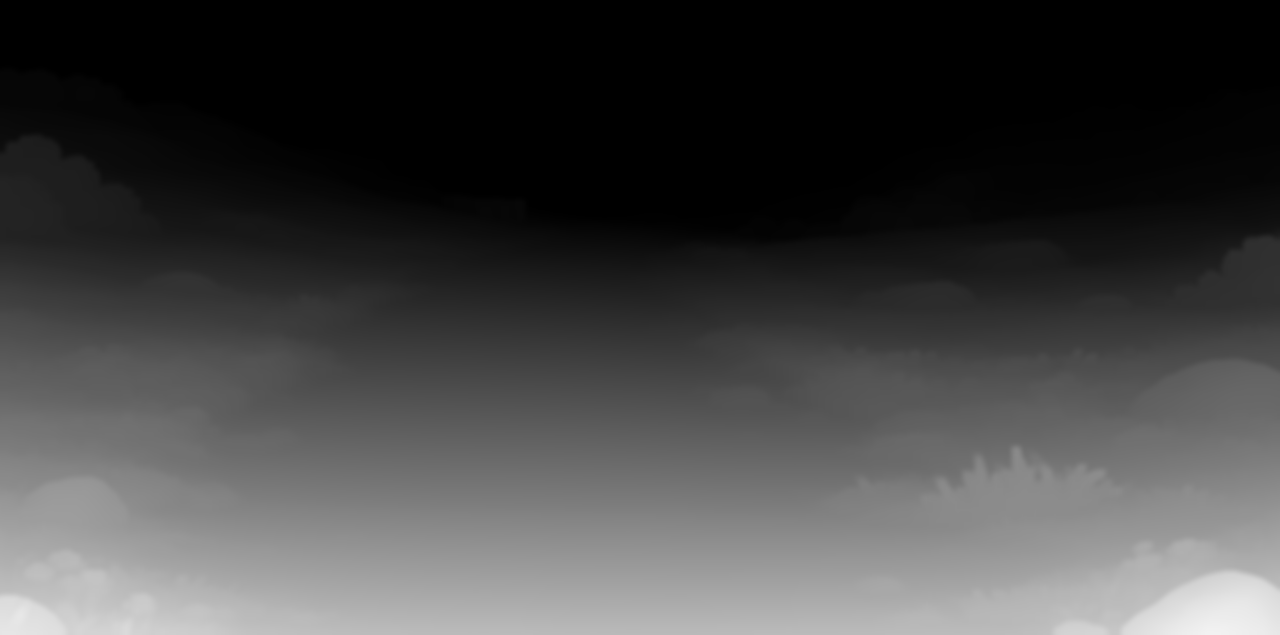
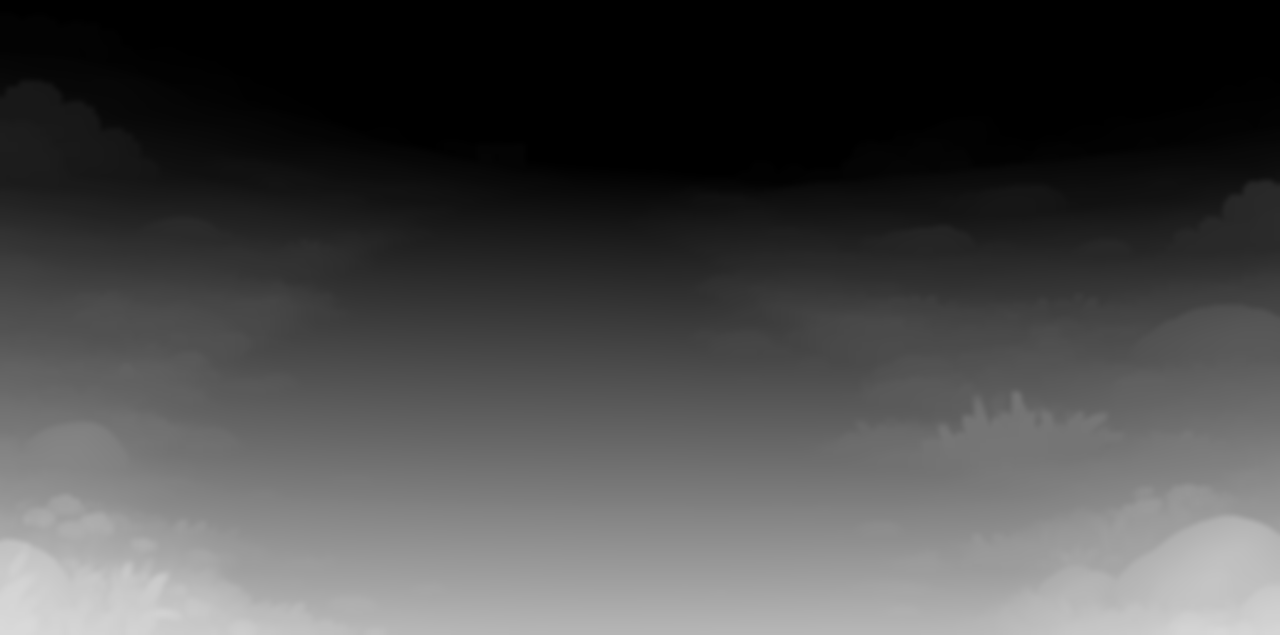
Battle stage 3D: Highroad + Stepped hall raised 110 px so the back row stands on the floor; presets/depth re-measured

diff --git a/modules/fabula-ultima-companion/scripts/battle-director/battle-stage-3d-rules.js b/modules/fabula-ultima-companion/scripts/battle-director/battle-stage-3d-rules.js
@@ -104,12 +104,14 @@ export const PRESETS = Object.freeze({
   // stage rows match the old art. Horizons: floor fit of Depth Anything V2 (the encoder
   // reproduces the shipped Highroad map at r 0.994 when given its 175.3); strength by the
   // usual rule, back row (feet ~row 217) drawn at 0.72. All open/relief models.
-  Eisendrache_Battlemap002_v2: { horizon: 175.3, strength: 0.178, orbitX: 8, orbitY: 2, stage3d: { relief: true, backRow: 222, frontRow: 547 } },
+  // Highroad and the Stepped hall are raised 110 px on the v2 canvas so the back row stands on the floor
+  // (the old art put the horizon / back ledge at the back-row feet). Horizons measured on the raised art.
+  Eisendrache_Battlemap002_v2: { horizon: 65.3, strength: 0.363, orbitX: 8, orbitY: 2, stage3d: { relief: true, backRow: 222, frontRow: 547 } },
   Eisendrache_Battlemap004_v2: { horizon: 47.1, strength: 0.392, stage3d: { relief: true, backRow: 222, frontRow: 547 } },
   Hideout_Battlemap001_v2: { horizon: 139.7, strength: 0.242, stage3d: { relief: true, backRow: 222, frontRow: 547 } },
   Hideout_Battlemap002_v2: { horizon: 21, strength: 0.432, stage3d: { relief: true, backRow: 222, frontRow: 547 } },
   // The original's heavy right/bottom vignette was relit from a second ChatGPT pass (stage edge only).
-  Hideout_Battlemap003_v2: { horizon: -173.7, strength: 0.728, stage3d: { relief: true, backRow: 222, frontRow: 547 } },
+  Hideout_Battlemap003_v2: { horizon: -171, strength: 0.723, stage3d: { relief: true, backRow: 222, frontRow: 547 } },
   Hideout_Battlemap004_v2: { horizon: -242.7, strength: 0.831, stage3d: { relief: true, backRow: 222, frontRow: 547 } },
   Hideout_Battlemap005_v2: { horizon: 69.4, strength: 0.357, stage3d: { relief: true, backRow: 222, frontRow: 547 } },
   Ruhig_Battlemap001_v2: { horizon: 35.3, strength: 0.41, stage3d: { relief: true, backRow: 222, frontRow: 547 } },
